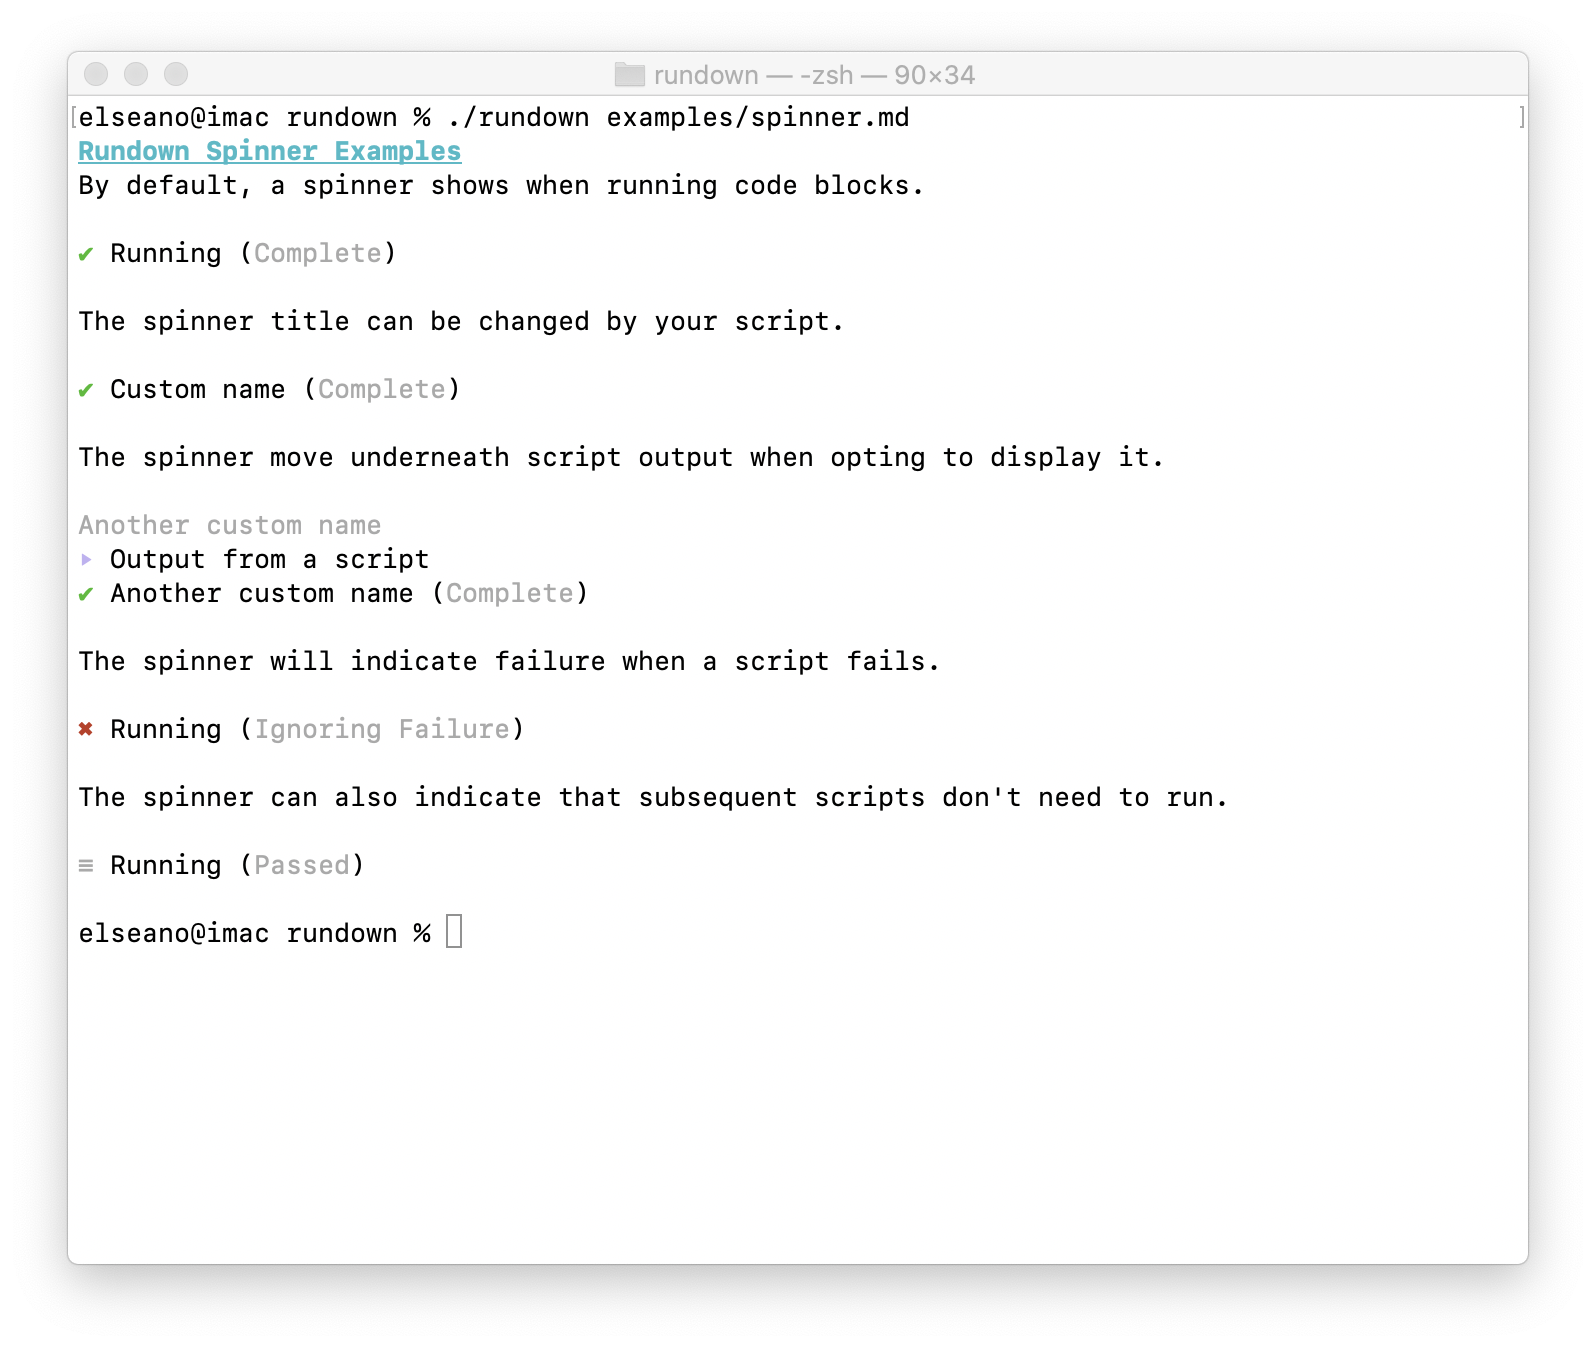
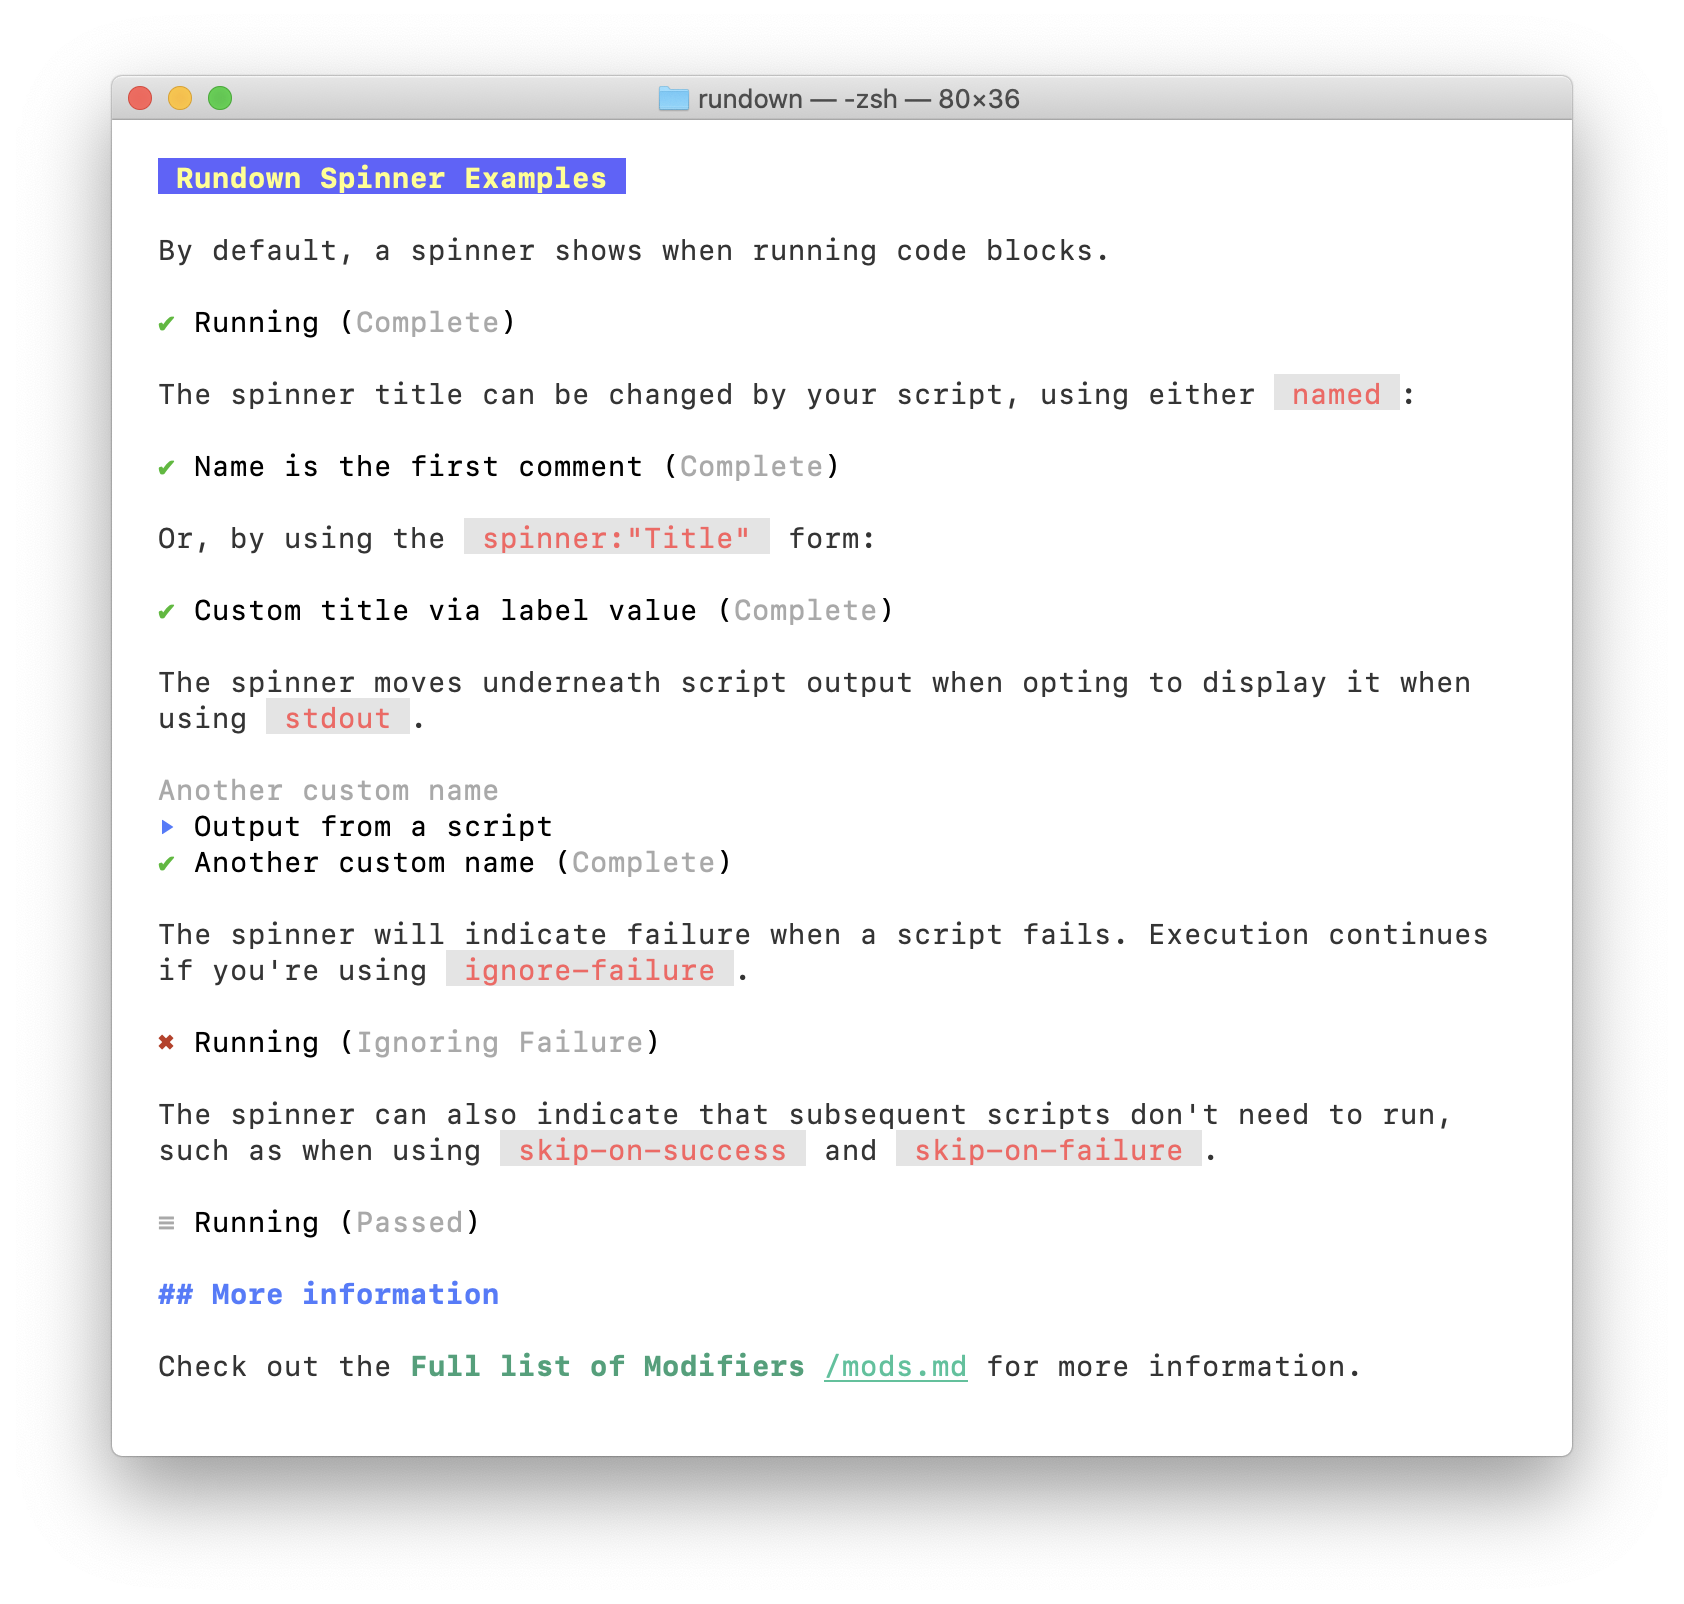
More documentation updates & presentation tweaks.

diff --git a/pkg/rundown/context.go b/pkg/rundown/context.go
@@ -85,7 +85,7 @@ func NewContext() *Context {
 		Env:             map[string]string{"RUNDOWN": tmpFile.Name()},
 		ForcedLevelZero: false,
 		Repeat:          false,
-		ConsoleWidth:    util.IntMin(util.GetConsoleWidth(), 120),
+		ConsoleWidth:    util.IntMin(util.GetConsoleWidth(), 120) - 2, // Right side margin of 2 chars.
 		Messages:        messages,
 		TempDir:         tmpDir,
 	}

diff --git a/cmd/rundown/cmd/errors.go b/cmd/rundown/cmd/errors.go
@@ -23,6 +23,7 @@ func handleError(dest io.Writer, err error, cb func()) int {
 		if cb != nil {
 			fmt.Fprintf(dest, "\n")
 			cb()
+			fmt.Fprintf(dest, "\n")
 		}
 	}()
 

diff --git a/examples/failure.md b/examples/failure.md
@@ -1,8 +1,8 @@
-# Failing scripts
+# Handling Script Failure
 
-Rundown has a few different ways it handles errors.
+Rundown has a few different ways it handles and interprets errors.
 
-## Errors with skip_on_success
+## Errors with skip-on-success
 
 If your script errors with the `skip-on-success` modifier, the error is swallowed and flow continues.
 
@@ -10,7 +10,7 @@ If your script errors with the `skip-on-success` modifier, the error is swallowe
 idontexistcall
 ```
 
-If your script succeeds with `skip-on-success`, then flow skips to the next heading.
+If your script succeeds with `skip-on-success`, then flow skips to the next heading:
 
 ``` bash skip-on-success
 true
@@ -18,7 +18,11 @@ true
 
 You won't see this.
 
-## Errors with skip_on_failure
+#### Target
+
+Flow will skip to here.
+
+## Errors with skip-on-failure
 
 If `skip-on-failure` succeeds, then flow continues.
 
@@ -34,9 +38,53 @@ idontexistcall
 
 You shouldn't see this.
 
+#### Target
+
+Flow will skip to here.
+
+## Supporting process exit
+
+Scripts can exit with a non-zero code which will be treated as a failure.
+
+``` bash skip-on-failure
+echo "This is a failure"
+exit 1
+```
+
+
 ## Errors in normal scripts
 
-This demonstrates the output from a failing script.
+Without the `skip-on-failure` or `ignore-failure` flags, a failing script will terminate the rundown file.
+
+You can add helpful troubleshooting documentation for failure cases using the `<rundown>` tag with the `on-failure` attribute. The contents of the tag will be shown prior to exiting.
+
+The tag supports two modes:
+
+* `<r on-failure>` Will show for any failure.
+* `<r on-failure="regexp">` Will show if the stdout/stderr stream matches the given regexp.
+
+The `on-failure` tags apply to the current heading only. Multiple tags are supported, and will be shown in the order they are declared.
+
+For example:
+
+~~~ markdown reveal norun
+# Heading
+
+``` bash
+somemissingapp
+```
+
+<r on-failure>:dazed: There was a failure.</r>
+<r on-failure="not found">You need to install acme</r>
+~~~
+
+This will render both tags, as `somemissingapp` will result in a `Command not found` error printed out. You can hide these tags inside a hidden block if you don't want to reveal the error conditions to readers.
+
+![On Failure Screenshot](../_images/on-failure.png)
+
+## Raw failures
+
+A raw failure looks like this:
 
 ``` bash
 idontexistcall

diff --git a/examples/spinner.md b/examples/spinner.md
@@ -6,27 +6,38 @@ By default, a spinner shows when running code blocks.
 echo
 ```
 
-The spinner title can be changed by your script.
+The spinner title can be changed by your script, using either `named`:
 
 ``` bash named
-# Custom name
+# Name is the first comment
 ```
 
-The spinner move underneath script output when opting to display it.
+Or, by using the `spinner:"Title"` form:
+
+``` bash spinner:"Custom title via label value"
+echo
+```
+
+
+The spinner moves underneath script output when opting to display it when using `stdout`.
 
 ``` bash named stdout
 # Another custom name
 echo "Output from a script"
 ```
 
-The spinner will indicate failure when a script fails.
+The spinner will indicate failure when a script fails. Execution continues if you're using `ignore-failure`.
 
 ``` bash ignore-failure
 failed
 ```
 
-The spinner can also indicate that subsequent scripts don't need to run.
+The spinner can also indicate that subsequent scripts don't need to run, such as when using `skip-on-success` and `skip-on-failure`.
 
 ``` bash skip-on-success
 echo "Hi"
 ```
+
+## More information
+
+Check out the [Full list of Modifiers](./mods.md) for more information.

diff --git a/README.md b/README.md
@@ -73,6 +73,16 @@ Rundown's own build file is a good example of what you can accomplish with Rundo
 
 A full list of the modifiers and examples can be found in the [Modifiers Example](./examples/mods.md) markdown file.
 
+## Handling Errors
+
+When using `bash`, fenced code blocks run with `set -euo pipefail`, so most errors will fail the running script. For other interpreters and shells, a non-zero exit code is considered a failure.
+
+When there's no special failure handling, all failures will cause Rundown to exit and provide an error trace.
+
+![Failure](./_images/failing.png)
+
+Take a look at the [Failure exampes](./examples/failure.md).
+
 ## Shortcodes <r label=shortcodes>
 
 Headings can have "shortcodes" attached to them, which allows that heading (and all child headings) to be executed specifically. Specifying a shortcode can be done either before the heading, or inside the heading itself.

diff --git a/examples/demo.md b/examples/demo.md
@@ -33,7 +33,7 @@ You can also refer to them in the Markdown text: <r sub-env>`$NAME`</r>.
 
 ## Shortcodes <r label=my-shortcode/>
 
-This heading has a **shortcode**, which you can see next to the heading itself.
+This heading has a **shortcode**, which you can't see in the rendering output, but you can view via adding the `--help` flag.
 
 In Rundown **shortcodes** enable you to skip directly to that heading, either via additional command line options, or by asking rundown to present a menu.
 
@@ -63,4 +63,5 @@ class Someclass < Object
 end
 ```
 
-What are you waiting for? Give Rundown a try today, and make the terminal pretty again!
+## Try it!
+
